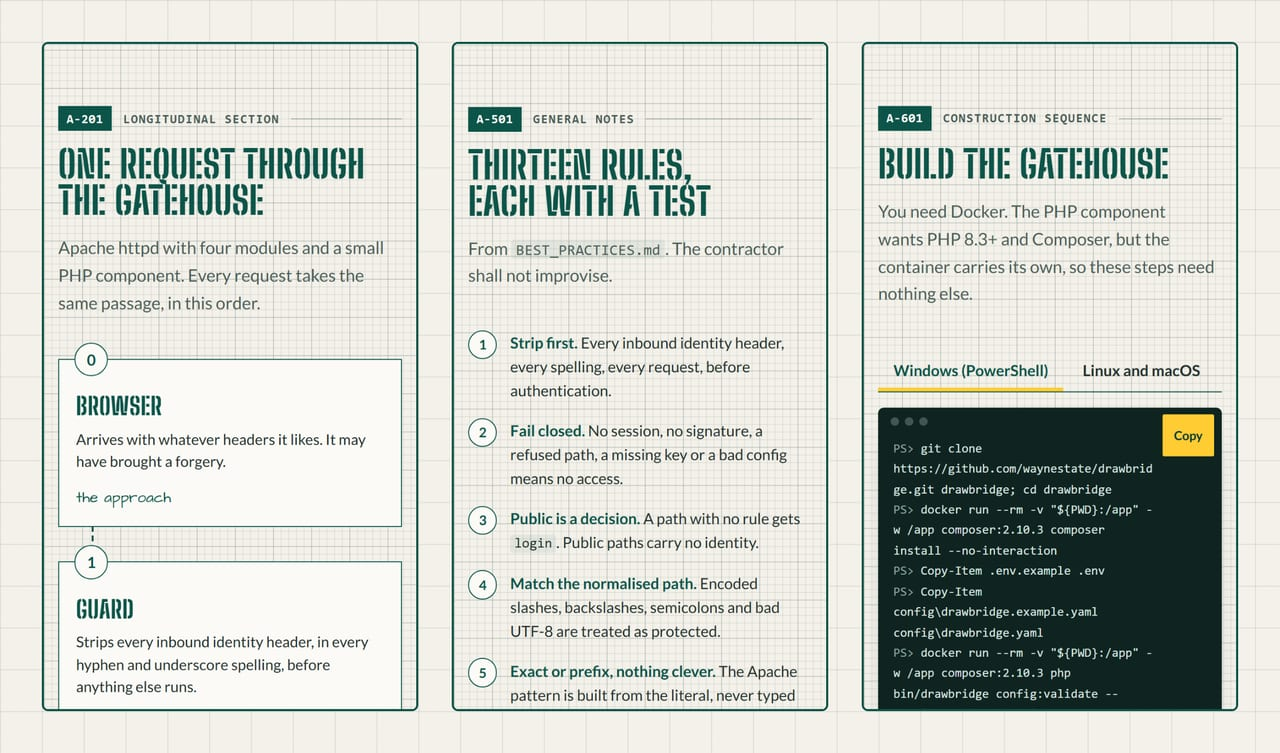
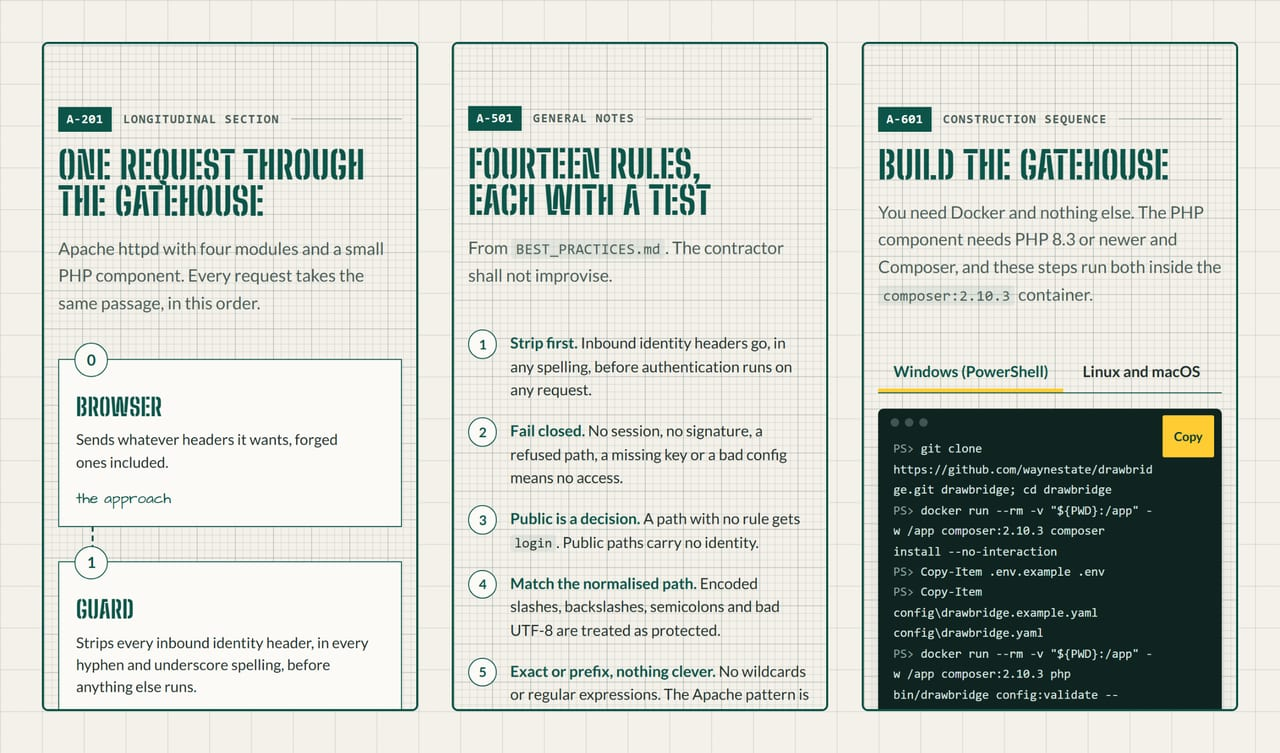
site: plainer voice (voice guide)
Rewrite the front page's sentences per design/voice.md; theme, sheets, art and motion unchanged. Fix the overclaim that WELD signs in through Drawbridge: the gateway is not in front of apps yet, WELD uses SESAME directly, and apps switch to SESAME's gateway driver once it is live. The site plan no longer names WELD as the whole stack. Regenerate agent-ready twins and README art (also fixes the stale gatehouse.svg: Rev 0.2, 14 rules, no en dashes).

diff --git a/site/index.html b/site/index.html
@@ -8,7 +8,7 @@
 <meta name="stack-env" content="auto">
 <script src="assets/stack-env.js" defer></script>
 <title>Drawbridge: Comes down for signed-in people</title>
-<meta name="description" content="Drawbridge is the auth gateway for WSU's container platform at auth.apps.wayne.edu: one OpenID Connect client, signed in through Microsoft Entra ID, in front of every app. It makes sure the visitor signed in, strips every identity header they brought along, and hands the app a short-lived ES256-signed assertion.">
+<meta name="description" content="Drawbridge is the sign-in gateway we're building for Citadel, Wayne State's container platform: Apache with mod_auth_openidc as one OpenID Connect client for Microsoft Entra ID. It drops any identity header a visitor sends and passes the app a 60-second ES256-signed assertion that SESAME checks. It isn't in front of any apps yet.">
 <meta name="theme-color" content="#f4f1ea">
 <meta name="color-scheme" content="light">
 <link rel="canonical" href="https://drawbridge.apps.wayne.edu/">
@@ -77,9 +77,9 @@
           <dd>The one way into the Citadel. It comes down only for people who are signed in, and goes back up for everyone else.</dd>
         </dl>
 
-        <p class="hero__blurb">One OpenID Connect client at <strong>auth.apps.wayne.edu</strong>, signed in through Microsoft Entra ID, in front of every app on the platform. It makes sure the visitor has a session, throws away any identity header they tried to bring along, and hands the app a 60-second ES256-signed assertion that SESAME verifies.</p>
+        <p class="hero__blurb">Drawbridge is Apache with mod_auth_openidc, set up as one OpenID Connect client for Microsoft Entra ID. Its home will be <strong>auth.apps.wayne.edu</strong>, in front of every app on Citadel. It checks that the visitor has a session, drops any identity header they sent, and passes the app a 60-second ES256-signed assertion that SESAME verifies.</p>
 
-        <p class="hero__blurb hero__weld"><b>Works alongside <a href="https://weld.apps.wayne.edu/">WELD</a>.</b> You don't install it: Drawbridge is the Citadel's front door, and WELD signs in through it with <a href="https://sesame.apps.wayne.edu/">SESAME</a>'s gateway driver.</p>
+        <p class="hero__blurb hero__weld"><b>Works alongside <a href="https://weld.apps.wayne.edu/">WELD</a>.</b> You don't install Drawbridge in your app; it's a Citadel service. It isn't in front of any apps yet, so WELD signs in with <a href="https://sesame.apps.wayne.edu/">SESAME</a> directly for now. Once the gateway is live, Citadel apps switch SESAME to its <code>gateway</code> driver.</p>
 
         <p class="hero__cta">
           <a class="wsu-btn wsu-btn--primary wsu-btn--lg" href="#build-title">Build the gatehouse</a>
@@ -242,7 +242,7 @@
         <li class="passage__room" style="--i:0">
           <span class="passage__no" aria-hidden="true">0</span>
           <h3>Browser</h3>
-          <p>Arrives with whatever headers it likes. It may have brought a forgery.</p>
+          <p>Sends whatever headers it wants, forged ones included.</p>
           <p class="passage__mod">the approach</p>
         </li>
         <li class="passage__room" style="--i:1">
@@ -254,19 +254,19 @@
         <li class="passage__room" style="--i:2">
           <span class="passage__no" aria-hidden="true">2</span>
           <h3>OpenID Connect client</h3>
-          <p>One client for every app, signed in through Entra ID, one session per app host. No session: off to Entra to sign in.</p>
+          <p>One Entra ID client for every app, with a separate session for each app host. Without a session, the browser is sent to Entra to sign in.</p>
           <p class="passage__mod">mod_auth_openidc</p>
         </li>
         <li class="passage__room" style="--i:3">
           <span class="passage__no" aria-hidden="true">3</span>
           <h3>Signer</h3>
-          <p>Mints a fresh ES256 assertion for this request. If it cannot sign, the answer is 503.</p>
+          <p>Signs a new ES256 assertion for each request. If signing fails, the visitor gets a 503.</p>
           <p class="passage__mod">mod_rewrite prg: map + PHP</p>
         </li>
         <li class="passage__room" style="--i:4">
           <span class="passage__no" aria-hidden="true">4</span>
           <h3>App</h3>
-          <p>Gets the request with one signed header, and verifies it with SESAME's <code>gateway</code> driver.</p>
+          <p>Receives the request with one signed header and checks it with SESAME's <code>gateway</code> driver.</p>
           <p class="passage__mod">mod_proxy</p>
         </li>
       </ol>
@@ -274,23 +274,23 @@
       <div class="outcomes" data-reveal>
         <div class="outcome">
           <p class="outcome__kind">login</p>
-          <p class="outcome__what">No session? The browser goes to sign in, then comes back.</p>
+          <p class="outcome__what">No session? The browser goes to Entra to sign in and comes back to the page.</p>
         </div>
         <div class="outcome">
           <p class="outcome__kind">api</p>
-          <p class="outcome__what">No session? A plain <strong>401</strong>. A script is never handed an HTML login page.</p>
+          <p class="outcome__what">Without a session it gets a plain <strong>401</strong>, so a script never receives an HTML login page.</p>
         </div>
         <div class="outcome">
           <p class="outcome__kind">public</p>
-          <p class="outcome__what">Passes through with no identity at all. Public is a decision, not a default.</p>
+          <p class="outcome__what">Passes through with no identity attached. A path is public only if the config says so.</p>
         </div>
         <div class="outcome outcome--warn">
           <p class="outcome__kind">signer down</p>
-          <p class="outcome__what"><strong>503</strong>. A request never reaches the app unsigned.</p>
+          <p class="outcome__what"><strong>503</strong>. Nothing reaches the app unsigned.</p>
         </div>
       </div>
 
-      <p class="margin-note" data-reveal>Why a moat and not a lock on every door: each app doing its own OpenID Connect is another chance to get a nonce, a state check or a token signature wrong. Drawbridge signs in once, in a maintained module, and every app checks one small signed token.</p>
+      <p class="margin-note" data-reveal>Why a moat and not a lock on every door: each app doing its own OpenID Connect is another chance to get a nonce, a state check or a token signature wrong. We'd rather get that right once, in a maintained module (mod_auth_openidc). Each app then checks one small signed token.</p>
     </div>
   </section>
 
@@ -300,7 +300,7 @@
       <header class="sheet__head" data-reveal>
         <p class="sheet-tag"><span class="sheet-tag__no">A-301</span> Door schedule</p>
         <h2 id="schedule-title">Which doors need a key</h2>
-        <p>Each app declares its paths in one config file. Nothing else decides. Rules are exact (<code>/up</code>) or a prefix (<code>/assets/</code>); the longest wins, and exact beats a prefix of the same length. No wildcards, no regular expressions, and the query string never chooses.</p>
+        <p>Each app lists its paths in one config file, and nothing else decides. A rule is exact (<code>/up</code>) or a prefix (<code>/assets/</code>). The longest match wins, and an exact rule beats a prefix of the same length. There are no wildcards or regular expressions, and the query string is never part of the match.</p>
       </header>
 
       <div class="schedule" data-reveal>
@@ -355,7 +355,7 @@
       <header class="sheet__head" data-reveal>
         <p class="sheet-tag"><span class="sheet-tag__no">A-401</span> Detail · the assertion</p>
         <h2 id="detail-title">What crosses the bridge</h2>
-        <p>A compact JWT, minted for every request, good for 60 seconds by default. The key never leaves the signer.</p>
+        <p>A compact JWT, made fresh for every request and valid for 60 seconds by default. The signing key stays in the signer.</p>
       </header>
 
       <div class="detail" data-reveal>
@@ -392,7 +392,7 @@
 
         <div class="stripped">
           <h3>Left at the gate</h3>
-          <p>Removed from every request, in every hyphen and underscore spelling, before authentication runs. Then the gateway sets its own.</p>
+          <p>The guard removes these from every request, in any hyphen or underscore spelling, before authentication runs. Then the gateway sets its own.</p>
           <ul class="stripped__list" role="list">
             <li><s>X-Authenticated-*</s></li>
             <li><s>X-Sesame-*</s></li>
@@ -421,11 +421,11 @@
         <p>From <code>BEST_PRACTICES.md</code>. The contractor shall not improvise.</p>
       </header>
       <ol class="notes" data-reveal>
-        <li><strong>Strip first.</strong> Every inbound identity header, every spelling, every request, before authentication.</li>
+        <li><strong>Strip first.</strong> Inbound identity headers go, in any spelling, before authentication runs on any request.</li>
         <li><strong>Fail closed.</strong> No session, no signature, a refused path, a missing key or a bad config means no access.</li>
         <li><strong>Public is a decision.</strong> A path with no rule gets <code>login</code>. Public paths carry no identity.</li>
         <li><strong>Match the normalised path.</strong> Encoded slashes, backslashes, semicolons and bad UTF-8 are treated as protected.</li>
-        <li><strong>Exact or prefix, nothing clever.</strong> The Apache pattern is built from the literal, never typed by hand.</li>
+        <li><strong>Exact or prefix, nothing clever.</strong> No wildcards or regular expressions. The Apache pattern is built from the literal path.</li>
         <li><strong>Sign narrowly and briefly.</strong> ES256, a pinned <code>typ</code>, one audience per app, a fresh <code>jti</code> each time.</li>
         <li><strong>Let the module do OpenID Connect.</strong> Drawbridge writes no OAuth client. Forged callbacks and missing contexts are refused.</li>
         <li><strong>One session per app host.</strong> A session cookie carried to another host opens nothing there.</li>
@@ -445,7 +445,7 @@
       <header class="sheet__head" data-reveal>
         <p class="sheet-tag"><span class="sheet-tag__no">A-601</span> Construction sequence</p>
         <h2 id="build-title">Build the gatehouse</h2>
-        <p>You need Docker. The PHP component wants PHP 8.3+ and Composer, but the container carries its own, so these steps need nothing else.</p>
+        <p>You need Docker and nothing else. The PHP component needs PHP 8.3 or newer and Composer, and these steps run both inside the <code>composer:2.10.3</code> container.</p>
       </header>
 
       <div class="build" data-reveal>
@@ -490,7 +490,7 @@
 
         <div class="build__side">
           <h3>Then raise it</h3>
-          <p>The entrypoint refuses to start without these: two files mounted read-only and two secrets in the environment. None of them is ever in git.</p>
+          <p>The entrypoint won't start without two files mounted read-only and two secrets in the environment. None of them goes in git.</p>
           <ul class="mounts" role="list">
             <li><code>drawbridge.yaml</code> <span>the per-app config</span></li>
             <li><code>signing.key</code> <span>the ES256 key; <code>keys:generate</code> makes one</span></li>
@@ -538,7 +538,7 @@
       <header class="sheet__head" data-reveal>
         <p class="sheet-tag"><span class="sheet-tag__no">A-602</span> Specifications</p>
         <h2 id="specs-title">Specs for your agent</h2>
-        <p>Your coding agent is the contractor. Hand it a spec: copy one, or run it straight in OpenCode, Claude Code, Codex or ChatGPT. Each one says what to build, what it may not touch, and to send a question back before it guesses.</p>
+        <p>Your coding agent is the contractor. Copy a spec, or open it directly in OpenCode, Claude Code, Codex or ChatGPT. Each spec gives the task and what the agent must leave alone, and tells it to ask you before it guesses.</p>
       </header>
 
       <div class="specs">
@@ -640,7 +640,7 @@ Output: the config entry, where the check runs and the diff, then your questions
         </section>
         </div>
 
-        <p class="specs__fine">The contractor reads the same sheets you do: <a href="llms.txt">llms.txt</a> lists the pages, <a href="llms-full.txt">llms-full.txt</a> holds them in one file, and this page has a <a href="index.md" type="text/markdown">Markdown twin</a>. Nothing here phones home; the buttons only copy text or open the tool you picked. No spec lowers the bridge for anyone who has not signed in.</p>
+        <p class="specs__fine">Agents read the same pages you do. <a href="llms.txt">llms.txt</a> lists them, <a href="llms-full.txt">llms-full.txt</a> has them all in one file, and this page has a <a href="index.md" type="text/markdown">Markdown twin</a>. The page sends nothing anywhere; the buttons only copy text or open the tool you picked. No spec lowers the bridge for anyone who hasn't signed in.</p>
       </div>
     </div>
   </section>
@@ -650,8 +650,8 @@ Output: the config entry, where the check runs and the diff, then your questions
     <div class="wsu-container">
       <header class="sheet__head" data-reveal>
         <p class="sheet-tag"><span class="sheet-tag__no">A-701</span> Site plan</p>
-        <h2 id="site-title">Where the gate stands in WELD</h2>
-        <p><a href="https://weld.apps.wayne.edu/">WELD</a> is the Wayne State app stack: one contract, several paths that agree. Drawbridge is the wall's one door; the rest of the stack lives inside.</p>
+        <h2 id="site-title">Where the gate stands in the stack</h2>
+        <p>Drawbridge is one part of the Wayne State application stack. <a href="https://weld.apps.wayne.edu/">WELD</a> is the Laravel starter app with the rest of it already set up. Once it's live, Drawbridge is the one door in Citadel's wall, and the apps and the stack's other parts run inside.</p>
       </header>
 
       <ol class="route" data-reveal aria-label="A signed-in request, from the gate to the page">
@@ -682,14 +682,14 @@ Output: the config entry, where the check runs and the diff, then your questions
           <li><img src="assets/marks/preflight.png" width="40" height="40" alt=""><span><b><a class="part-link" href="https://preflight.apps.wayne.edu/">Preflight</a></b> the shared CI components</span></li>
           <li><img src="assets/marks/sesame.png" width="40" height="40" alt=""><span><b><a class="part-link" href="https://sesame.apps.wayne.edu/">SESAME</a></b> sign-in inside the app</span></li>
           <li><img src="assets/marks/helmet.png" width="40" height="40" alt=""><span><b><a class="part-link" href="https://helmet.apps.wayne.edu/">HELMET</a></b> security headers and CSP reports</span></li>
-          <li><img src="assets/marks/pinstripe.png" width="40" height="40" alt=""><span><b><a class="part-link" href="https://pinstripe.apps.wayne.edu/">Pinstripe</a></b> the coding standard, pressed</span></li>
-          <li><img src="assets/marks/sourdough.png" width="40" height="40" alt=""><span><b><a class="part-link" href="https://sourdough.apps.wayne.edu/">Sourdough</a></b> the starter that keeps the stack fed</span></li>
-          <li><img src="assets/marks/weld.png" width="40" height="40" alt=""><span><b><a class="part-link" href="https://weld.apps.wayne.edu/">WELD</a></b> every part, already joined</span></li>
-          <li><img src="assets/marks/booster.png" width="40" height="40" alt=""><span><b><a class="part-link" href="https://booster.apps.wayne.edu/">Booster</a></b> keeps an app's PHP current</span></li>
+          <li><img src="assets/marks/pinstripe.png" width="40" height="40" alt=""><span><b><a class="part-link" href="https://pinstripe.apps.wayne.edu/">Pinstripe</a></b> code style presets</span></li>
+          <li><img src="assets/marks/sourdough.png" width="40" height="40" alt=""><span><b><a class="part-link" href="https://sourdough.apps.wayne.edu/">Sourdough</a></b> the raw PHP starter</span></li>
+          <li><img src="assets/marks/weld.png" width="40" height="40" alt=""><span><b><a class="part-link" href="https://weld.apps.wayne.edu/">WELD</a></b> the Laravel starter, with the stack set up</span></li>
+          <li><img src="assets/marks/booster.png" width="40" height="40" alt=""><span><b><a class="part-link" href="https://booster.apps.wayne.edu/">Booster</a></b> upgrades PHP and Laravel one version at a time</span></li>
           <li><img src="assets/marks/rollcall.png" width="40" height="40" alt=""><span><b><a class="part-link" href="https://rollcall.apps.wayne.edu/">Rollcall</a></b> every app answers "present"</span></li>
-          <li><img src="assets/marks/advisor.png" width="40" height="40" alt=""><span><b><a class="part-link" href="https://advisor.apps.wayne.edu/">ADVISOR</a></b> what applies, and what to do next</span></li>
-          <li><img src="assets/marks/squire.png" width="40" height="40" alt=""><span><b><a class="part-link" href="https://squire.apps.wayne.edu/">Squire</a></b> carries the release to Citadel</span></li>
-          <li class="key-plan__here"><img src="brand/drawbridge-avatar-256.png" width="40" height="40" alt=""><span><b>Drawbridge</b> the one OpenID Connect front door <em>you are here</em></span></li>
+          <li><img src="assets/marks/advisor.png" width="40" height="40" alt=""><span><b><a class="part-link" href="https://advisor.apps.wayne.edu/">ADVISOR</a></b> an MCP server your agent can ask</span></li>
+          <li><img src="assets/marks/squire.png" width="40" height="40" alt=""><span><b><a class="part-link" href="https://squire.apps.wayne.edu/">Squire</a></b> the deploy kit for Citadel</span></li>
+          <li class="key-plan__here"><img src="brand/drawbridge-avatar-256.png" width="40" height="40" alt=""><span><b>Drawbridge</b> the sign-in gateway for Citadel's apps <em>you are here</em></span></li>
         </ul>
       </div>
     </div>
@@ -701,7 +701,7 @@ Output: the config entry, where the check runs and the diff, then your questions
       <header class="sheet__head" data-reveal>
         <p class="sheet-tag"><span class="sheet-tag__no">A-801</span> Revision schedule</p>
         <h2 id="rev-title">Drawn, not yet built</h2>
-        <p>Release 0.2 moves the chain to OpenID Connect with Entra ID; the gate, the guard, the signer and the rig stay. What waits is listed in <code>OPEN_QUESTIONS.md</code>, with the safer default the code uses until then.</p>
+        <p>Release 0.2 (not released yet) swaps SAML for OpenID Connect with Entra ID. The guard, the signer and the rig work as before. So far only the gateway image is built: it will run as a service on Citadel, and the routing in front of it is still the platform team's to design. The items below come from <code>OPEN_QUESTIONS.md</code>, each with the safer default the code uses until it's built.</p>
       </header>
       <div class="wsu-table-wrap" data-reveal tabindex="0" role="region" aria-label="Planned revisions">
         <table class="rev-table">

diff --git a/site/index.md b/site/index.md
@@ -1,6 +1,6 @@
 ---
 title: "Drawbridge: Comes down for signed-in people"
-description: "Drawbridge is the auth gateway for WSU's container platform at auth.apps.wayne.edu: one OpenID Connect client, signed in through Microsoft Entra ID, in front of every app. It makes sure the visitor signed in, strips every identity header they brought along, and hands the app a short-lived ES256-signed assertion."
+description: "Drawbridge is the sign-in gateway we're building for Citadel, Wayne State's container platform: Apache with mod_auth_openidc as one OpenID Connect client for Microsoft Entra ID. It drops any identity header a visitor sends and passes the app a 60-second ES256-signed assertion that SESAME checks. It isn't in front of any apps yet."
 url: https://drawbridge.apps.wayne.edu/
 llms: https://drawbridge.apps.wayne.edu/llms.txt
 generator: Squire agent-ready
@@ -14,9 +14,9 @@ Comes down for signed-in people.
 
 - **draw·bridge noun, not an acronym**: The one way into the Citadel. It comes down only for people who are signed in, and goes back up for everyone else.
 
-One OpenID Connect client at **auth.apps.wayne.edu**, signed in through Microsoft Entra ID, in front of every app on the platform. It makes sure the visitor has a session, throws away any identity header they tried to bring along, and hands the app a 60-second ES256-signed assertion that SESAME verifies.
+Drawbridge is Apache with mod_auth_openidc, set up as one OpenID Connect client for Microsoft Entra ID. Its home will be **auth.apps.wayne.edu**, in front of every app on Citadel. It checks that the visitor has a session, drops any identity header they sent, and passes the app a 60-second ES256-signed assertion that SESAME verifies.
 
-**Works alongside [WELD](https://weld.apps.wayne.edu/).** You don't install it: Drawbridge is the Citadel's front door, and WELD signs in through it with [SESAME](https://sesame.apps.wayne.edu/)'s gateway driver.
+**Works alongside [WELD](https://weld.apps.wayne.edu/).** You don't install Drawbridge in your app; it's a Citadel service. It isn't in front of any apps yet, so WELD signs in with [SESAME](https://sesame.apps.wayne.edu/) directly for now. Once the gateway is live, Citadel apps switch SESAME to its `gateway` driver.
 
 [Build the gatehouse](https://drawbridge.apps.wayne.edu/#build-title) [Read the section](https://drawbridge.apps.wayne.edu/#section-title)
 
@@ -31,44 +31,44 @@ A-201 Longitudinal section
 Apache httpd with four modules and a small PHP component. Every request takes the same passage, in this order.
 
 1. ### Browser
-   Arrives with whatever headers it likes. It may have brought a forgery.
+   Sends whatever headers it wants, forged ones included.
    the approach
 2. ### Guard
    Strips every inbound identity header, in every hyphen and underscore spelling, before anything else runs.
    mod_lua
 3. ### OpenID Connect client
-   One client for every app, signed in through Entra ID, one session per app host. No session: off to Entra to sign in.
+   One Entra ID client for every app, with a separate session for each app host. Without a session, the browser is sent to Entra to sign in.
    mod_auth_openidc
 4. ### Signer
-   Mints a fresh ES256 assertion for this request. If it cannot sign, the answer is 503.
+   Signs a new ES256 assertion for each request. If signing fails, the visitor gets a 503.
    mod_rewrite prg: map + PHP
 5. ### App
-   Gets the request with one signed header, and verifies it with SESAME's `gateway` driver.
+   Receives the request with one signed header and checks it with SESAME's `gateway` driver.
    mod_proxy
 
 login
 
-No session? The browser goes to sign in, then comes back.
+No session? The browser goes to Entra to sign in and comes back to the page.
 
 api
 
-No session? A plain **401**. A script is never handed an HTML login page.
+Without a session it gets a plain **401**, so a script never receives an HTML login page.
 
 public
 
-Passes through with no identity at all. Public is a decision, not a default.
+Passes through with no identity attached. A path is public only if the config says so.
 
 signer down
 
-**503**. A request never reaches the app unsigned.
+**503**. Nothing reaches the app unsigned.
 
-Why a moat and not a lock on every door: each app doing its own OpenID Connect is another chance to get a nonce, a state check or a token signature wrong. Drawbridge signs in once, in a maintained module, and every app checks one small signed token.
+Why a moat and not a lock on every door: each app doing its own OpenID Connect is another chance to get a nonce, a state check or a token signature wrong. We'd rather get that right once, in a maintained module (mod_auth_openidc). Each app then checks one small signed token.
 
 A-301 Door schedule
 
 ## Which doors need a key
 
-Each app declares its paths in one config file. Nothing else decides. Rules are exact (`/up`) or a prefix (`/assets/`); the longest wins, and exact beats a prefix of the same length. No wildcards, no regular expressions, and the query string never chooses.
+Each app lists its paths in one config file, and nothing else decides. A rule is exact (`/up`) or a prefix (`/assets/`). The longest match wins, and an exact rule beats a prefix of the same length. There are no wildcards or regular expressions, and the query string is never part of the match.
 
 **Door schedule for `app1.apps.wayne.edu`, from `config/drawbridge.example.yaml`**
 
@@ -91,7 +91,7 @@ A-401 Detail · the assertion
 
 ## What crosses the bridge
 
-A compact JWT, minted for every request, good for 60 seconds by default. The key never leaves the signer.
+A compact JWT, made fresh for every request and valid for 60 seconds by default. The signing key stays in the signer.
 
 header
 
@@ -124,7 +124,7 @@ Sent as `X-Sesame-Assertion`. Apps that cannot verify a token yet can take plain
 
 ### Left at the gate
 
-Removed from every request, in every hyphen and underscore spelling, before authentication runs. Then the gateway sets its own.
+The guard removes these from every request, in any hyphen or underscore spelling, before authentication runs. Then the gateway sets its own.
 
 - ~~X-Authenticated-\*~~
 - ~~X-Sesame-\*~~
@@ -146,11 +146,11 @@ A-501 General notes
 
 From `BEST_PRACTICES.md`. The contractor shall not improvise.
 
-1. **Strip first.** Every inbound identity header, every spelling, every request, before authentication.
+1. **Strip first.** Inbound identity headers go, in any spelling, before authentication runs on any request.
 2. **Fail closed.** No session, no signature, a refused path, a missing key or a bad config means no access.
 3. **Public is a decision.** A path with no rule gets `login`. Public paths carry no identity.
 4. **Match the normalised path.** Encoded slashes, backslashes, semicolons and bad UTF-8 are treated as protected.
-5. **Exact or prefix, nothing clever.** The Apache pattern is built from the literal, never typed by hand.
+5. **Exact or prefix, nothing clever.** No wildcards or regular expressions. The Apache pattern is built from the literal path.
 6. **Sign narrowly and briefly.** ES256, a pinned `typ`, one audience per app, a fresh `jti` each time.
 7. **Let the module do OpenID Connect.** Drawbridge writes no OAuth client. Forged callbacks and missing contexts are refused.
 8. **One session per app host.** A session cookie carried to another host opens nothing there.
@@ -165,7 +165,7 @@ A-601 Construction sequence
 
 ## Build the gatehouse
 
-You need Docker. The PHP component wants PHP 8.3+ and Composer, but the container carries its own, so these steps need nothing else.
+You need Docker and nothing else. The PHP component needs PHP 8.3 or newer and Composer, and these steps run both inside the `composer:2.10.3` container.
 
 **Windows (PowerShell)**
 
@@ -199,7 +199,7 @@ $ docker build -f docker/gateway/Dockerfile -t drawbridge-gateway .
 
 ### Then raise it
 
-The entrypoint refuses to start without these: two files mounted read-only and two secrets in the environment. None of them is ever in git.
+The entrypoint won't start without two files mounted read-only and two secrets in the environment. None of them goes in git.
 
 - `drawbridge.yaml` the per-app config
 - `signing.key` the ES256 key; `keys:generate` makes one
@@ -231,7 +231,7 @@ A-602 Specifications
 
 ## Specs for your agent
 
-Your coding agent is the contractor. Hand it a spec: copy one, or run it straight in OpenCode, Claude Code, Codex or ChatGPT. Each one says what to build, what it may not touch, and to send a question back before it guesses.
+Your coding agent is the contractor. Copy a spec, or open it directly in OpenCode, Claude Code, Codex or ChatGPT. Each spec gives the task and what the agent must leave alone, and tells it to ask you before it guesses.
 
 ### Get started with Drawbridge
 
@@ -325,13 +325,13 @@ Constraints:
 Output: the config entry, where the check runs and the diff, then your questions.
 ```
 
-The contractor reads the same sheets you do: [llms.txt](https://drawbridge.apps.wayne.edu/llms.txt) lists the pages, [llms-full.txt](https://drawbridge.apps.wayne.edu/llms-full.txt) holds them in one file, and this page has a [Markdown twin](https://drawbridge.apps.wayne.edu/index.md). Nothing here phones home; the buttons only copy text or open the tool you picked. No spec lowers the bridge for anyone who has not signed in.
+Agents read the same pages you do. [llms.txt](https://drawbridge.apps.wayne.edu/llms.txt) lists them, [llms-full.txt](https://drawbridge.apps.wayne.edu/llms-full.txt) has them all in one file, and this page has a [Markdown twin](https://drawbridge.apps.wayne.edu/index.md). The page sends nothing anywhere; the buttons only copy text or open the tool you picked. No spec lowers the bridge for anyone who hasn't signed in.
 
 A-701 Site plan
 
-## Where the gate stands in WELD
+## Where the gate stands in the stack
 
-[WELD](https://weld.apps.wayne.edu/) is the Wayne State app stack: one contract, several paths that agree. Drawbridge is the wall's one door; the rest of the stack lives inside.
+Drawbridge is one part of the Wayne State application stack. [WELD](https://weld.apps.wayne.edu/) is the Laravel starter app with the rest of it already set up. Once it's live, Drawbridge is the one door in Citadel's wall, and the apps and the stack's other parts run inside.
 
 1. Drawbridgesigns the visitor in, once
 2. [SESAME](https://sesame.apps.wayne.edu/)its gateway driver verifies the token
@@ -346,20 +346,20 @@ A-701 Site plan
 - **[Preflight](https://preflight.apps.wayne.edu/)** the shared CI components
 - **[SESAME](https://sesame.apps.wayne.edu/)** sign-in inside the app
 - **[HELMET](https://helmet.apps.wayne.edu/)** security headers and CSP reports
-- **[Pinstripe](https://pinstripe.apps.wayne.edu/)** the coding standard, pressed
-- **[Sourdough](https://sourdough.apps.wayne.edu/)** the starter that keeps the stack fed
-- **[WELD](https://weld.apps.wayne.edu/)** every part, already joined
-- **[Booster](https://booster.apps.wayne.edu/)** keeps an app's PHP current
+- **[Pinstripe](https://pinstripe.apps.wayne.edu/)** code style presets
+- **[Sourdough](https://sourdough.apps.wayne.edu/)** the raw PHP starter
+- **[WELD](https://weld.apps.wayne.edu/)** the Laravel starter, with the stack set up
+- **[Booster](https://booster.apps.wayne.edu/)** upgrades PHP and Laravel one version at a time
 - **[Rollcall](https://rollcall.apps.wayne.edu/)** every app answers "present"
-- **[ADVISOR](https://advisor.apps.wayne.edu/)** what applies, and what to do next
-- **[Squire](https://squire.apps.wayne.edu/)** carries the release to Citadel
-- **Drawbridge** the one OpenID Connect front door *you are here*
+- **[ADVISOR](https://advisor.apps.wayne.edu/)** an MCP server your agent can ask
+- **[Squire](https://squire.apps.wayne.edu/)** the deploy kit for Citadel
+- **Drawbridge** the sign-in gateway for Citadel's apps *you are here*
 
 A-801 Revision schedule
 
 ## Drawn, not yet built
 
-Release 0.2 moves the chain to OpenID Connect with Entra ID; the gate, the guard, the signer and the rig stay. What waits is listed in `OPEN_QUESTIONS.md`, with the safer default the code uses until then.
+Release 0.2 (not released yet) swaps SAML for OpenID Connect with Entra ID. The guard, the signer and the rig work as before. So far only the gateway image is built: it will run as a service on Citadel, and the routing in front of it is still the platform team's to design. The items below come from `OPEN_QUESTIONS.md`, each with the safer default the code uses until it's built.
 
 **Planned revisions**
 
